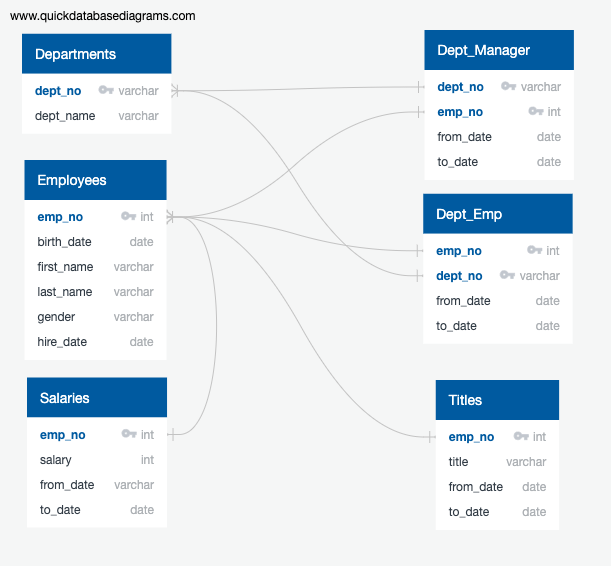
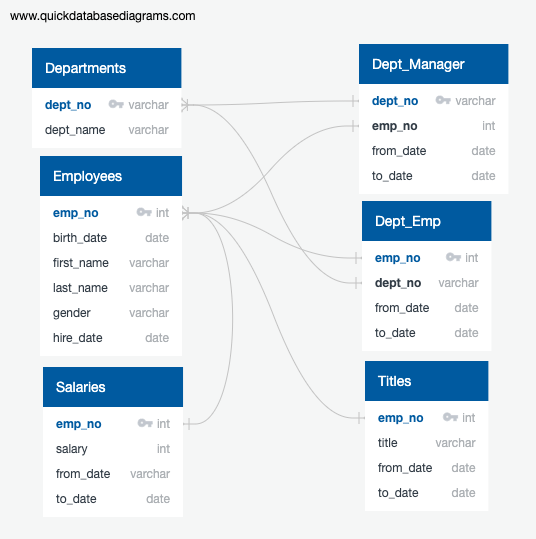
updated employeedb image and text docs

diff --git a/EmployeeDB.tex b/EmployeeDB.tex
@@ -6,14 +6,14 @@ dept_name varchar
 Dept_Emp
 -
 emp_no int pk fk -< Employees.emp_no
-dept_no varchar pk fk -< Departments.dept_no
+dept_no varchar fk -< Departments.dept_no
 from_date date
 to_date date
 
 Dept_Manager
 -
 dept_no varchar pk fk - Departments.dept_no
-emp_no int pk fk - Employees.emp_no
+emp_no int fk - Employees.emp_no
 from_date date
 to_date date
 
